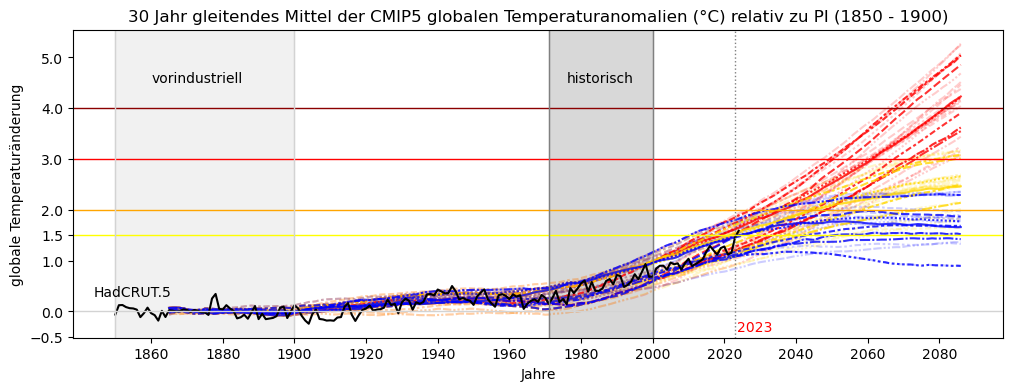
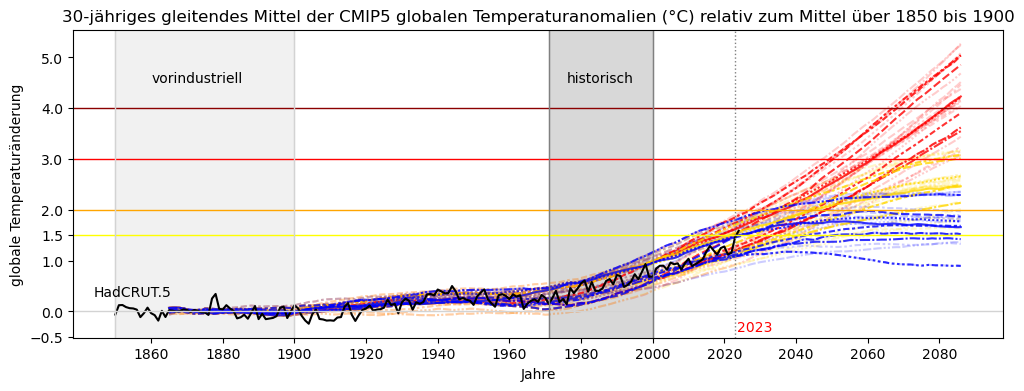
Notebooks/read_atlas_cmip5.ipynb
changed spelling

diff --git a/docs/gwld.rst b/docs/gwld.rst
@@ -1,9 +1,9 @@
 Globale Erwärmungsstufen
 ------------------------
 
-Die Zeiträume, in denen die globalen Erwärmungsstufen (engl.: global warming level (GWL) `Nikulin (2018)`_) von +1.5, +2, +3 und +4 °C erreicht werden, beziehen sich auf den vorindustriellen Durchschnittswert der Jahre 1850 bis 1900. Dies bedeutet, dass der globale Mittelwert der bodennahen Temperatur um 1,5°C, 2°C, 3°C und 4 °C wärmer ist als im vorindustriellen Mittel. Die globalen Erwärmungsstufen werden für die globalen Projektionen von CMIP5 (*Coupled Modelling Intercomparison Project 5*) unter Verwendung eines gleitenden 30-Jährigen Mittelwertes berechnet.
+Die Zeiträume, in denen die globalen Erwärmungsstufen (engl.: global warming level (GWL) `Nikulin (2018)`_) von +1.5, +2, +3 und +4 °C erreicht werden, beziehen sich auf den vorindustriellen Durchschnittswert der Jahre 1850 bis 1900. Dies bedeutet, dass der globale Mittelwert der bodennahen Temperatur um 1,5°C, 2°C, 3°C und 4 °C wärmer ist als im vorindustriellen Mittel. Die GWL werden für die globalen Projektionen von CMIP5 (*Coupled Modelling Intercomparison Project 5*) unter Verwendung eines gleitenden 30-Jährigen Mittelwertes berechnet.
 
-Für die Berechnung der GWL wird die Methode aus dem `IPCC Atlas`_ verwendet (`Mathias Hauser`_). Für die hier vorliegenden Untersuchungen wurde lediglich die 20-Jährige Zeitspanne im Programm scripts/getGWL.R auf eine 30-Jährige Zeitspanne erweitert. Der `Unterschied`_ zwischen den Ergebnisse für eine 20-Jährige und 30-Jährige Zeitspanne ist gering, in Einzelfällen verschiebt sich das zentrale Jahr des gemittelten Zeitraumes um ein Jahr.
+Für die Berechnung der GWL wird die Methode aus dem `IPCC Atlas`_ verwendet (`Mathias Hauser`_). Für die hier vorliegenden Untersuchungen wurde lediglich die 20-jährige Zeitspanne im Programm_ des IPCC Atlas auf eine 30-Jährige Zeitspanne erweitert. Der `Unterschied`_ zwischen den Ergebnissen für eine 20-jährige und 30-jährige Zeitspanne ist gering, in Einzelfällen verschiebt sich das zentrale Jahr des gemittelten Zeitraumes um ein Jahr.
 
 Vorindustriell und heute
 ........................
@@ -12,9 +12,9 @@ Die GWL werden im Vergleich zur vorindustriellen Periode (PI) der Jahre 1850 bis
 
 .. image:: plots/HadCRU_GWL_PI_new_version24.png
 
-**Abbildung 3** zeigt die jährlichen Anomalien der global gemittelten oberflächennahen Temperatur im Vergleich zum vorindustriellen Zeitraum von 1850 bis 1900. Die mittlere Änderung im Referenzzeitraum von 1971 bis 2000 beträgt 0.51 K und ist eingezeichnet. Es wurde die neue Version der globalen oberflächennahen Temperaturdatasatzes *HadCRUT5* des *Met Office Hadley Centre/Climatic Research Unit* verwendet.
+**Abbildung 3** zeigt die jährlichen Anomalien der global gemittelten oberflächennahen Temperatur im Vergleich zum vorindustriellen Zeitraum von 1850 bis 1900. Die mittlere Änderung im Referenzzeitraum von 1971 bis 2000 beträgt 0.51 K und ist eingezeichnet. Es wurde die neue Version der globalen oberflächennahen Temperatur Datasatzes *HadCRUT5* des *Met Office Hadley Centre/Climatic Research Unit* verwendet.
 
-Im orginal besteht der *HadCRUT5* Datensatz vom *Met Office Hadley Centre/Climatic Research Unit* aus monatlichen durchschnittlichen Anomalien der Oberflächentemperatur im Vergleich zum Zeitraum 1961-1990 auf einem regelmäßigen Raster von 5° Breitengrad mal 5° Längengrad von 1850 bis 2023. HadCRUT5 ist eine Kombination aus Messungen der Meeresoberflächentemperatur (SST) über dem Ozean von Schiffen und Bojen und Messungen der bodennahen Lufttemperatur von Wetterstationen über der Landoberfläche. 
+Im Original besteht der *HadCRUT5* Datensatz vom *Met Office Hadley Centre/Climatic Research Unit* aus monatlichen durchschnittlichen Anomalien der Oberflächentemperatur im Vergleich zum Zeitraum 1961-1990 auf einem regelmäßigen Raster von 5° Breitengrad mal 5° Längengrad von 1850 bis 2023. HadCRUT5 ist eine Kombination aus Messungen der Meeresoberflächentemperatur (SST) über dem Ozean von Schiffen und Bojen und Messungen der bodennahen Lufttemperatur von Wetterstationen über der Landoberfläche. 
 
 
 Diese Abbildung kann mit dem folgenden Notebook erstellt werden:
@@ -23,44 +23,46 @@ Diese Abbildung kann mit dem folgenden Notebook erstellt werden:
 
    $ Notebooks/HadCru_GWL-update2024.ipynb
 
-Es ist nicht möglich mit Hilfe der regionalen Klimasimulationen aus dem EURO-CORDEX Ensemble die Änderung zwischen dem vorindustriellen Zeitraum zu den Zeiträumen der globalen Erwärmungsstufen zu berechnen, da das EURO-CORDEX Ensemble erst im Jahr 1971 beginnt. Als Referenzzeitraum wird daher 1971-2000 festgelegt. In den hier vorliegenden Untersuchungen kann nur gezeigt werden, wie sich das Klima während des Zeitraums einer Erwärmungstufe im Vergleich zum Referenzzeitraum verändert hat. Die Temperatur ist bereits im Referenzzeitraum 1971-2000 im Vergleich zum vorindustriellen Zeitraum global angestiegen.
+Es ist nicht möglich mit Hilfe der regionalen Klimasimulationen aus dem EURO-CORDEX Ensemble die Änderung zwischen dem vorindustriellen Zeitraum zu den Zeiträumen der GWL zu berechnen, da das EURO-CORDEX Ensemble erst im Jahr 1971 beginnt. Als Referenzzeitraum wird daher 1971-2000 festgelegt. In den hier vorliegenden Untersuchungen kann nur gezeigt werden, wie sich das Klima während des Zeitraums eines GWL im Vergleich zum Referenzzeitraum verändert hat. Die Temperatur ist bereits im Referenzzeitraum 1971-2000 im Vergleich zum vorindustriellen Zeitraum global angestiegen.
 
 Ensembles für verschiedene globale Erwärmungsstufen
 ...................................................
 
-Die Anzahl der globalen Projektionen in den Ensembles für die einzelnen globalen Erwärmungsstufen (GWL) variiert. Alle globalen Projektionen des RCP45 (gelb) und RCP85 (rot) erreichen die globalen Erwärumsstufen 1,5 °C und 2°C. Aber Projektionen unter Verwendung des RCP26 Szenarios (blau) erreichen nur zum Teil die globale Erwärmungsstufe 1,5°C (siehe Abbildung 4). Aus diesem Grund wird hier das Modellensemble unter Verwendung des RCP85 benutzt, da so wenigstens die Anzahl der Projektionen für GWL 1,5°C, 2°C und 3°C konstant bleibt. Für das GWL 4°C reduziert sich das Ensemble auch unter Verwendung des RCP85 um 3 globale Simulationen.
+Die Anzahl der globalen Projektionen in den Ensembles für die einzelnen GWL variiert. Alle globalen Projektionen des RCP4.5 (gelb) und RCP8.5 (rot) erreichen die GWL 1,5 °C und 2°C. Aber Projektionen unter Verwendung des RCP2.6 Szenarios (blau) erreichen nur zum Teil die GWL 1,5°C und 2°C (siehe Abbildung 4). Aus diesem Grund wird hier das Modellensemble unter Verwendung des RCP8.5 verwendet. So bleibt wenigstens die Anzahl der Projektionen für GWL 1,5°C, 2°C und 3°C konstant. Für das GWL 4°C reduziert sich das Ensemble auch unter Verwendung des RCP8.5 um 3 globale Simulationen.
 
 .. image:: plots/cmip_HadCRUt5_GWL_all_deutsch.png
 
-**Abbildung 4** zeigt die Temperaturanomalien aller CMIP5 Projektionen, die im IPCC Atlas verwendet werden. Die helleren Linien repräsentieren die globalen Klimamodelle, die nicht als Antrieb in EURO-CORDEX verwendet werden, die dunkleren Linien repräsentieren die GCMs, die als Antrieb in EURO-CORDEX verwendet werden. Die Farben stehen für RCP2.6 (blau), RCP4.5 (gelb) und RCP8.5 (rot). Die als Antrieb verwendeten GCMs decken nahezu die gesamte Bandbreite der Temperaturveränderung auf globaler Ebene ab.
+**Abbildung 4** zeigt die Temperaturanomalien im Vergleich zum vorindustriellen Zeitraum von 1850 bis 1900 aller CMIP5 Projektionen, die im IPCC-Atlas verwendet werden. Die helleren Linien repräsentieren die globalen Klimamodelle, die nicht als Antrieb in EURO-CORDEX verwendet werden, die dunkleren Linien repräsentieren die GCMs, die als Antrieb in EURO-CORDEX verwendet werden. Die Farben stehen für RCP2.6 (blau), RCP4.5 (gelb) und RCP8.5 (rot). Die Ergebnisse, der als Antrieb verwendeten GCMs, decken nahezu die gesamte Bandbreite der Temperaturveränderung auf globaler Ebene ab. In schwarz sind zusätzlich die jährlichen Anomalien der global gemittelten oberflächennahen Temperatur HadCRUT5 aus Abbildung 3 eingezeichnet. 
 
-Diese Abbildung kann mit dem folgenden Notebook unter Verwendung der Daten des IPCC Atlas erstellt werden:
+Abbildung 4 kann mit dem folgenden Notebook unter Verwendung der Daten des IPCC-Atlas erstellt werden:
 
 .. code-block:: console
 
    $ Notebooks/read_atlas_cmip5.ipynb
 
-Die EURO-CORDEX-Projektionen, welche das RCP8.5 Szenario verwenden, werden für jede globale Erwärmungsstuffe (GWL) analysiert. Dadurch bleibt das Ensemble über alle GWL einigermaßen konstant. Nicht alle globalen Klimamodelle erreichen jedoch das GWL von 4 °C. Das EURO-CORDEX-Ensemble mit RCP8.5 Szenario enthält die meisten Kombinationen von globalen Klimamodellen (GCM) und regionalen Klimamodellen (RCM). Dennoch besteht eine Unsicherheit, da unterschiedliche Treibhausgasantriebe eine Wirkung haben können (`Bärring (2018)`_), insbesondere im Hinblick auf Extremereignisse. Andere Autoren empfehlen, für bestimmte Variablen alle Szenarien zu kombinieren. Weitere Informationen dazu finden sich in Querkapitel-Box 11.1 im `IPCC AR6 WG1 Chapter 11`_ .
+Die Analysen, die der Broschüre zu Grunde liegen, basieren auf den EURO-CORDEX-Projektionen, welche das RCP8.5 Szenario verwenden. Diese werden für jedes GWL analysiert. Dadurch bleibt das Ensemble über alle GWLs konstant für 1,5°C, 2°C und 3°C, jedoch nicht alle globalen Klimamodelle erreichen das GWL von 4 °C. Der Anteil des EURO-CORDEX-Ensembles, für den das RCP8.5 Szenario verwendet wurde, enthält die meisten Kombinationen aus globalen Klimamodellen (GCM) und regionalen Klimamodellen (RCM).
+Durch die Auswahl des einen bestimmten Szenarios RCP8.5 bleibt das Modell Ensemble bestmöglich konstant. Es wird dadurch jedoch nicht berücksichtigt, dass eventuell unterschiedliche Treibhausgasantriebe eine Wirkung haben können, insbesondere im Hinblick auf Extremereignisse (`Bärring (2018)`_). Weitere Informationen dazu befinden sich in Querkapitel-Box 11.1 im `IPCC AR6 WG1 Chapter 11`_ .
 
-Im folgenden werden Zeitscheiben, der globalen Erwärmsstufen der einzelen Simulationen pro RCP für das gesammte Globalmodell Ensemble des IPCC mit dem Ensemble der Globalmodelle, welche für EURO-CORDEX als Antrieb verwendet wurden, verglichen.
+Im Folgenden werden die Ergebnisse des gesamten Globalmodell-Ensembles des IPCC mit den Ergebnissen des Teilensembles der Globalmodelle (GCM), welche als Antrieb für EURO-CORDEX verwendet wurden, verglichen. Dieser Vergleich wird für jedes GWL und jedes RCP-Szenario durchgeführt. Ziel dieses Vergleichs ist es zu zeigen, ob die Ergebnisse des Teilensembles (GCMs verwendet als Antrieb für EURO-CORDEX) die gesamte Bandbreite der Ergebnisse des IPCC Globalmodell-Ensembles abdecken. Somit kann die Verlässlichkeit des Teilensembles eingeschätzt werden.
+
 
 .. image:: plots/years_of_GWL_scenario_ensemble.png
 
-**Abbildung 5** zeigt das zentrale Jahr der Erwärmungsstufe eines 30-Jährigen Zeitraumes für jedes Globalmodell. Es werden für jedes Szenario das Ensemble der CMIP5 Modelle (*verwendet im IPCC Atlas*) mit dem Ensemble der CMIP5 Modelle (*verwendet als Antrieb für in EURO-CORDEX*) mit einander verglichen. Die farbige Box erstreckt sich über den Bereich vom 25. bis zum 75. Perzentil, wobei der Median als schwarze Linie in der Mitte dargestellt wird. Der Median wird auch als blaue Zahl oben aufgeführt, und die schwarze Zahl unten gibt die Anzahl der Simulationen an, die das jeweilige GWL erreicht.
+**Abbildung 5** zeigt das zentrale Jahr der globalen Erwärmungsstufe (GWL) eines 30-jährigen Zeitraumes für jedes Globalmodell. Es werden für jedes Szenario die Ergebnisse des Ensembles der CMIP5 Modelle (*verwendet im IPCC-Atlas*) mit den Ergebnissen der CMIP5-CORDEX Modelle (*verwendet als Antrieb für in EURO-CORDEX*) miteinander verglichen. Die farbige Box erstreckt sich über den Bereich vom 25. bis zum 75. Perzentil, wobei der Median als schwarze Linie in der Mitte dargestellt wird. Der Median wird auch als blaue Zahl oben aufgeführt, und die schwarze Zahl unten gibt die Anzahl der Simulationen an, die das jeweilige GWL erreicht.
 
-Diese Abbildung kann mit dem folgenden Notebook erstellt werden:
+Abbildung 5 kann mit dem folgenden Notebook erstellt werden:
 
 .. code-block:: console
 
    $ GWL_table/plot_GWL_years.ipynb
 
-Der Vergleich der zentralen Jahre der GWL zwischen dem CMIP5-Ensemble (CMIP5) (*verwendet im IPCC Atlas*) und dem CMIP5-Ensemble (CMIP5-CORDEX) (*verwendet als Antrieb für EURO-CORDEX*) zeigt geringe Unterschiede zwischen den Szenarien für die GWL 1.5 °C und 2 °C. Für die GWL 3 °C ist der Unterschied bezüglich des Zeitraumes zwischen RCP45 und RCP85 größer als 10 Jahre. Für jedes Szenario stimmt der Median des CMIP5 Ensembles gut mit dem Median des CMIP5-CORDEX Ensembles überein. Eine Ausnahme bildet das GWL 4 °C, welches nur von einigen RCP85 Simulation erreicht wird. Hier zeigt sich ein Differenz von 8 Jahren zwischen den Medianen der beiden Ensemble.
+Die zentralen Jahre der GWL der Ergebnisse des CMIP5 Ensembles (CMIP5) (*verwendet im IPCC-Atlas*) und den Ergebnissen des CMIP5-CORDEX Ensembles (CMIP5-CORDEX) (*verwendet als Antrieb für EURO-CORDEX*) liegen für GWL 1.5 °C und 2 °C jeweils für alle drei RCP-Szenarien überwiegend innerhalb einer Dekade. Für GWL 3 °C ist der Unterschied zwischen dem Median der zentralen Jahre für RCP4.5 und RCP8.5 größer als 10 Jahre.
 
-In der Tabelle der Klimaparameter in der Broschüre *Stadtwald Karlsruhe im Klimawandel* ist der 30-Jährige Mittelwert für den Referenzzeitraum auf Grundlage von Beobachtungen (siehe vorrangehendes Kapitel) dargestellt. Der Median der Änderungen im EURO-CORDEX-Ensemble im Vergleich zum Referenzzeitraum für die verschiedenen GWL ist nur auf Grundlage des RCP85 Szenarios gezeigt, um das Ensemble über die vier GWL einigermaßen konstant zu halten.
+Für jedes einzelne Szenario stimmt der Median der Ergebnisse des CMIP5 Ensembles gut mit dem Median der Ergebnisse des CMIP5-CORDEX Ensembles überein. Eine Ausnahme bildet das GWL 4 °C, welches nur von einigen RCP8.5 Simulationen der EURO-CORDEX Simulationen erreicht wird. Hier zeigt sich eine Differenz von 8 Jahren zwischen den Medianen der beiden Ensembles.
 
 Literatur
 ..........
-Der beste Überblick über die unterschiedlichen Methoden zur Berechnung der globalen Erwärmungsstufen sind in `Nikulin (2018)`_ um im `IPCC`_ Atlas dargelegt. Weiterführen Information enthalten `Vautard (2014)`_ und `Kjellstroem (2017)`_.
+Weiterführende Informationen zu den unterschiedlichen Methoden zur Berechnung der globalen Erwärmungsstufen sind in `Nikulin (2018)`_ , im `IPCC`_ Atlas, `Vautard (2014)`_ und `Kjellstroem (2017)`_ erläutert.
 
 
 .. _Bärring (2018): https://iopscience.iop.org/article/10.1088/1748-9326/aa9f72
@@ -85,5 +87,5 @@ Der beste Überblick über die unterschiedlichen Methoden zur Berechnung der glo
 
 .. _`Unterschied`: https://github.com/IPCC-WG1/Atlas/blob/main/warming-levels/CMIP5_WarmingLevels_spread_RCP85.pdf
 
+.. _Programm: https://github.com/IPCC-WG1/Atlas/blob/main/warming-levels/scripts/getGWL.R
 
-"change from 1850: the HadCRUT5 data set. Journal of Geophysical Research: Atmospheres, 126, e2019JD032361

diff --git a/docs/model_list.rst b/docs/model_list.rst
@@ -7,9 +7,9 @@ Im Rahmen der Europäischen Initiative `EURO-CORDEX`_ (Coordinated Downscaling E
 
 In den hier erläuterten Untersuchungen wurden die `EURO-CORDEX`_ Simulationen mit einer horizontalen Auflösung von 12 Km (EUR11) verwendet. 
 
-Diese Daten stehen im Earth System Grid Federation (esgf_) zum Herunterladen zur Verfügung. Details zu den einzelnen Modellen und ihrem Datenformat sind dokumentiert_. Weitere Informationen und Diagnostik_ sind in `Diez-Sierra et al., 2022`_ nach zulesen.
+Diese Daten stehen im Earth System Grid Federation (esgf_) zum Herunterladen zur Verfügung. Details zu den einzelnen Modellen und ihrem Datenformat sind dokumentiert_. Weitere Informationen zu den Klimamodellen und `Modell-Diagnostik`_ sind in `Diez-Sierra et al., 2022`_ nachzulesen.
 
-Die folgende Liste (Tabelle 1) umfasst eine Auswahl der insgesamt zur Verfügung stehenden Klimasimulationen. Die Vorgehensweise der Auswahl der Simulationen ist im folgenden Kapitel zu den **globale Erwärmungstufen** dokumentiert.
+Die folgende Liste (Tabelle 1) umfasst eine Auswahl der insgesamt zur Verfügung stehenden Klimasimulationen. Die Vorgehensweise der Auswahl der Simulationen ist im folgenden Kapitel zu den **globale Erwärmungsstufen** dokumentiert.
 
 +---------------------+-------------------+----------+-------------+----------------+
 | Regionales          | Globales          | Szenario | Realisation | GWL            |
@@ -130,12 +130,12 @@ Die folgende Liste (Tabelle 1) umfasst eine Auswahl der insgesamt zur Verfügung
 | SMHI-RCA4           | NCC-NorESM1-M     | rcp85    | r1i1p1      | 1.5, 2, 3°C    |
 +---------------------+-------------------+----------+-------------+----------------+
 
-**Tabelle 1** führt die verwendeten Simulationen auf. Jede Zeile enthält den Regionalmodellnamen, Globalmodellnamen, Szenarionamen, die Realisation des Globalmodells und die globalen Erwärmungstufen, welche von der jeweilige globalen Simulation erreicht werden und somit in die Ensemble Analyse eingehen.
+**Tabelle 1** führt die verwendeten Simulationen auf. Jede Zeile enthält den Regionalmodellnamen, Globalmodellnamen, Szenario Namen, die Realisation des Globalmodells und die globalen Erwärmungsstufen, welche von der jeweiligen globalen Simulation erreicht werden und somit in die Ensemble Analyse eingehen.
 
 
 .. _dokumentiert: https://confluence.ecmwf.int/display/CKB/CORDEX%3A+Regional+climate+projections
 
-.. _Diagnostik: https://confluence.ecmwf.int/display/CKB/Evaluation+of+CDS+climate+projections
+.. _`Modell-Diagnostik`: https://confluence.ecmwf.int/display/CKB/Evaluation+of+CDS+climate+projections
 
 .. _`Diez-Sierra et al., 2022`:  https://journals.ametsoc.org/view/journals/bams/103/12/BAMS-D-22-0111.1.xml
 

diff --git a/docs/authors.rst b/docs/authors.rst
@@ -14,4 +14,4 @@ Entwicklungsteam:
 Übersetzungen:
 --------------
 
-Es wurde zum Übersetzen aus dem Englischen ins Deutsche teilweise https://chat.openai.com verwendet
+Es wurde zum Übersetzen aus dem Englischen ins Deutsche teilweise ChatGPT (Mai 2024) verwendet.
